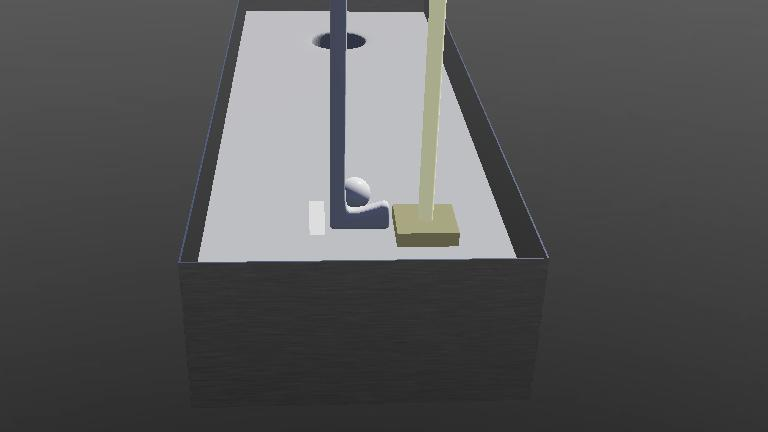
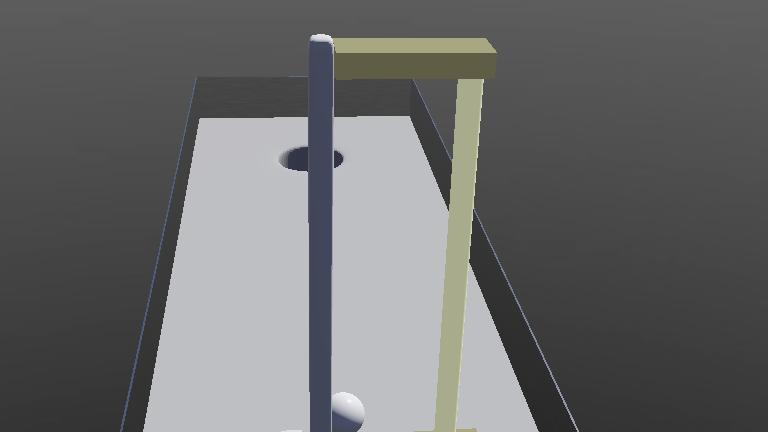
Test program to get ball into the hole

diff --git a/controllers/test/test.py b/controllers/test/test.py
@@ -1,0 +1,37 @@
+"""test controller."""
+
+# You may need to import some classes of the controller module. Ex:
+#  from controller import Robot, Motor, DistanceSensor
+from controller import Robot, Motor
+from math import pi, sin
+from enum import Enum
+
+TIME_STEP = 64
+robot = Robot()
+kij_motor = robot.getDevice("kij_motor")
+#kij_motor.setAcceleration(10)
+kij_motor.setTorque(3000)
+kij_motor.setPosition(float('inf'))
+kij_motor.setVelocity(0.0)
+
+class Angle():
+    val = 0
+    def set_val(self, val):
+        self.val = val*pi
+        return self.val
+    
+
+F = 2.0   # frequency 2 Hz
+t = 0.0   # elapsed simulation time
+angle = Angle()
+while robot.step(TIME_STEP) != -1:
+    kij_motor.setVelocity(10.0)
+    
+    #if kij_motor.
+    #position = angle.set_val(t)
+    #print(position)
+    #kij_motor.setPosition(position)
+    #kij_motor.setVelocity(10.0)
+    #t += TIME_STEP / 100.0
+
+    pass
